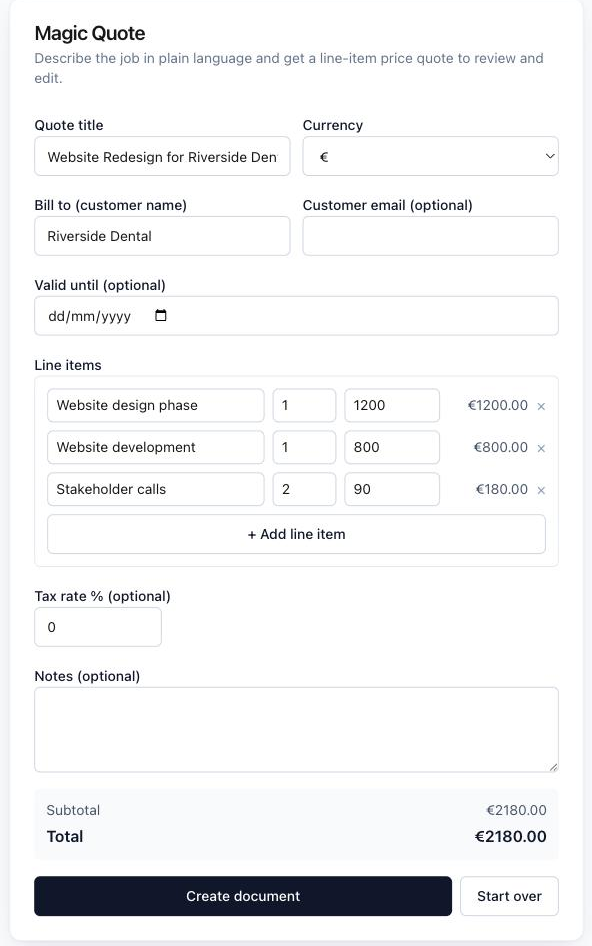
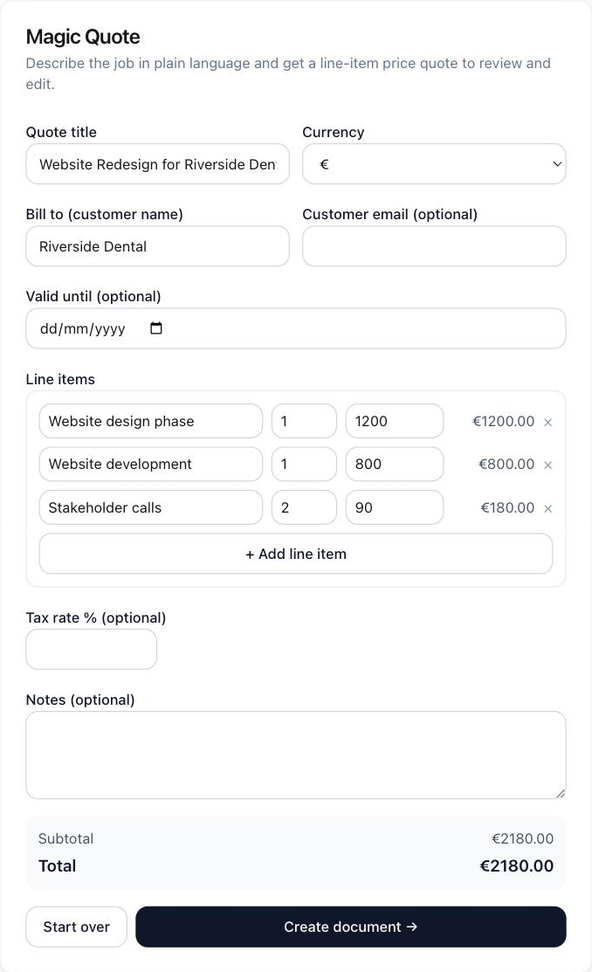
Recapture Magic Quote hero screenshot for new button layout
Old screenshot showed Create document (left) / Start over (right) with no
arrow -- stale since the CTA button-order swap + arrow addition shipped.
Recaptured live from production (Riverside Dental example, same as
before), stitched from two scroll positions, cursor parked outside the
card before each shot. New image is 592x972 (was 592x946) -- height
updated on all three pages that reference it (/magic-quote,
/magic-quote/au-tradies, /magic-quote/us-subcontractors).

diff --git a/src/app/magic-quote/us-subcontractors/page.tsx b/src/app/magic-quote/us-subcontractors/page.tsx
@@ -135,7 +135,7 @@ export default async function MagicQuoteUsSubcontractorsPage() {
             src="/hero-magic-quote.png"
             alt="Magic Quote review screen showing an AI-generated line-item quote with editable line items and computed totals"
             width={592}
-            height={946}
+            height={972}
             priority
             sizes="(max-width: 640px) 90vw, 384px"
             className="h-auto w-full"

diff --git a/src/app/magic-quote/au-tradies/page.tsx b/src/app/magic-quote/au-tradies/page.tsx
@@ -136,7 +136,7 @@ export default async function MagicQuoteAuTradiesPage() {
             src="/hero-magic-quote.png"
             alt="Magic Quote review screen showing an AI-generated line-item quote with editable line items and computed totals"
             width={592}
-            height={946}
+            height={972}
             priority
             sizes="(max-width: 640px) 90vw, 384px"
             className="h-auto w-full"

diff --git a/src/app/magic-quote/page.tsx b/src/app/magic-quote/page.tsx
@@ -115,7 +115,7 @@ export default async function MagicQuotePage() {
             src="/hero-magic-quote.png"
             alt="Magic Quote review screen showing an AI-generated line-item quote with editable line items and computed totals"
             width={592}
-            height={946}
+            height={972}
             priority
             sizes="(max-width: 640px) 90vw, 384px"
             className="h-auto w-full"
